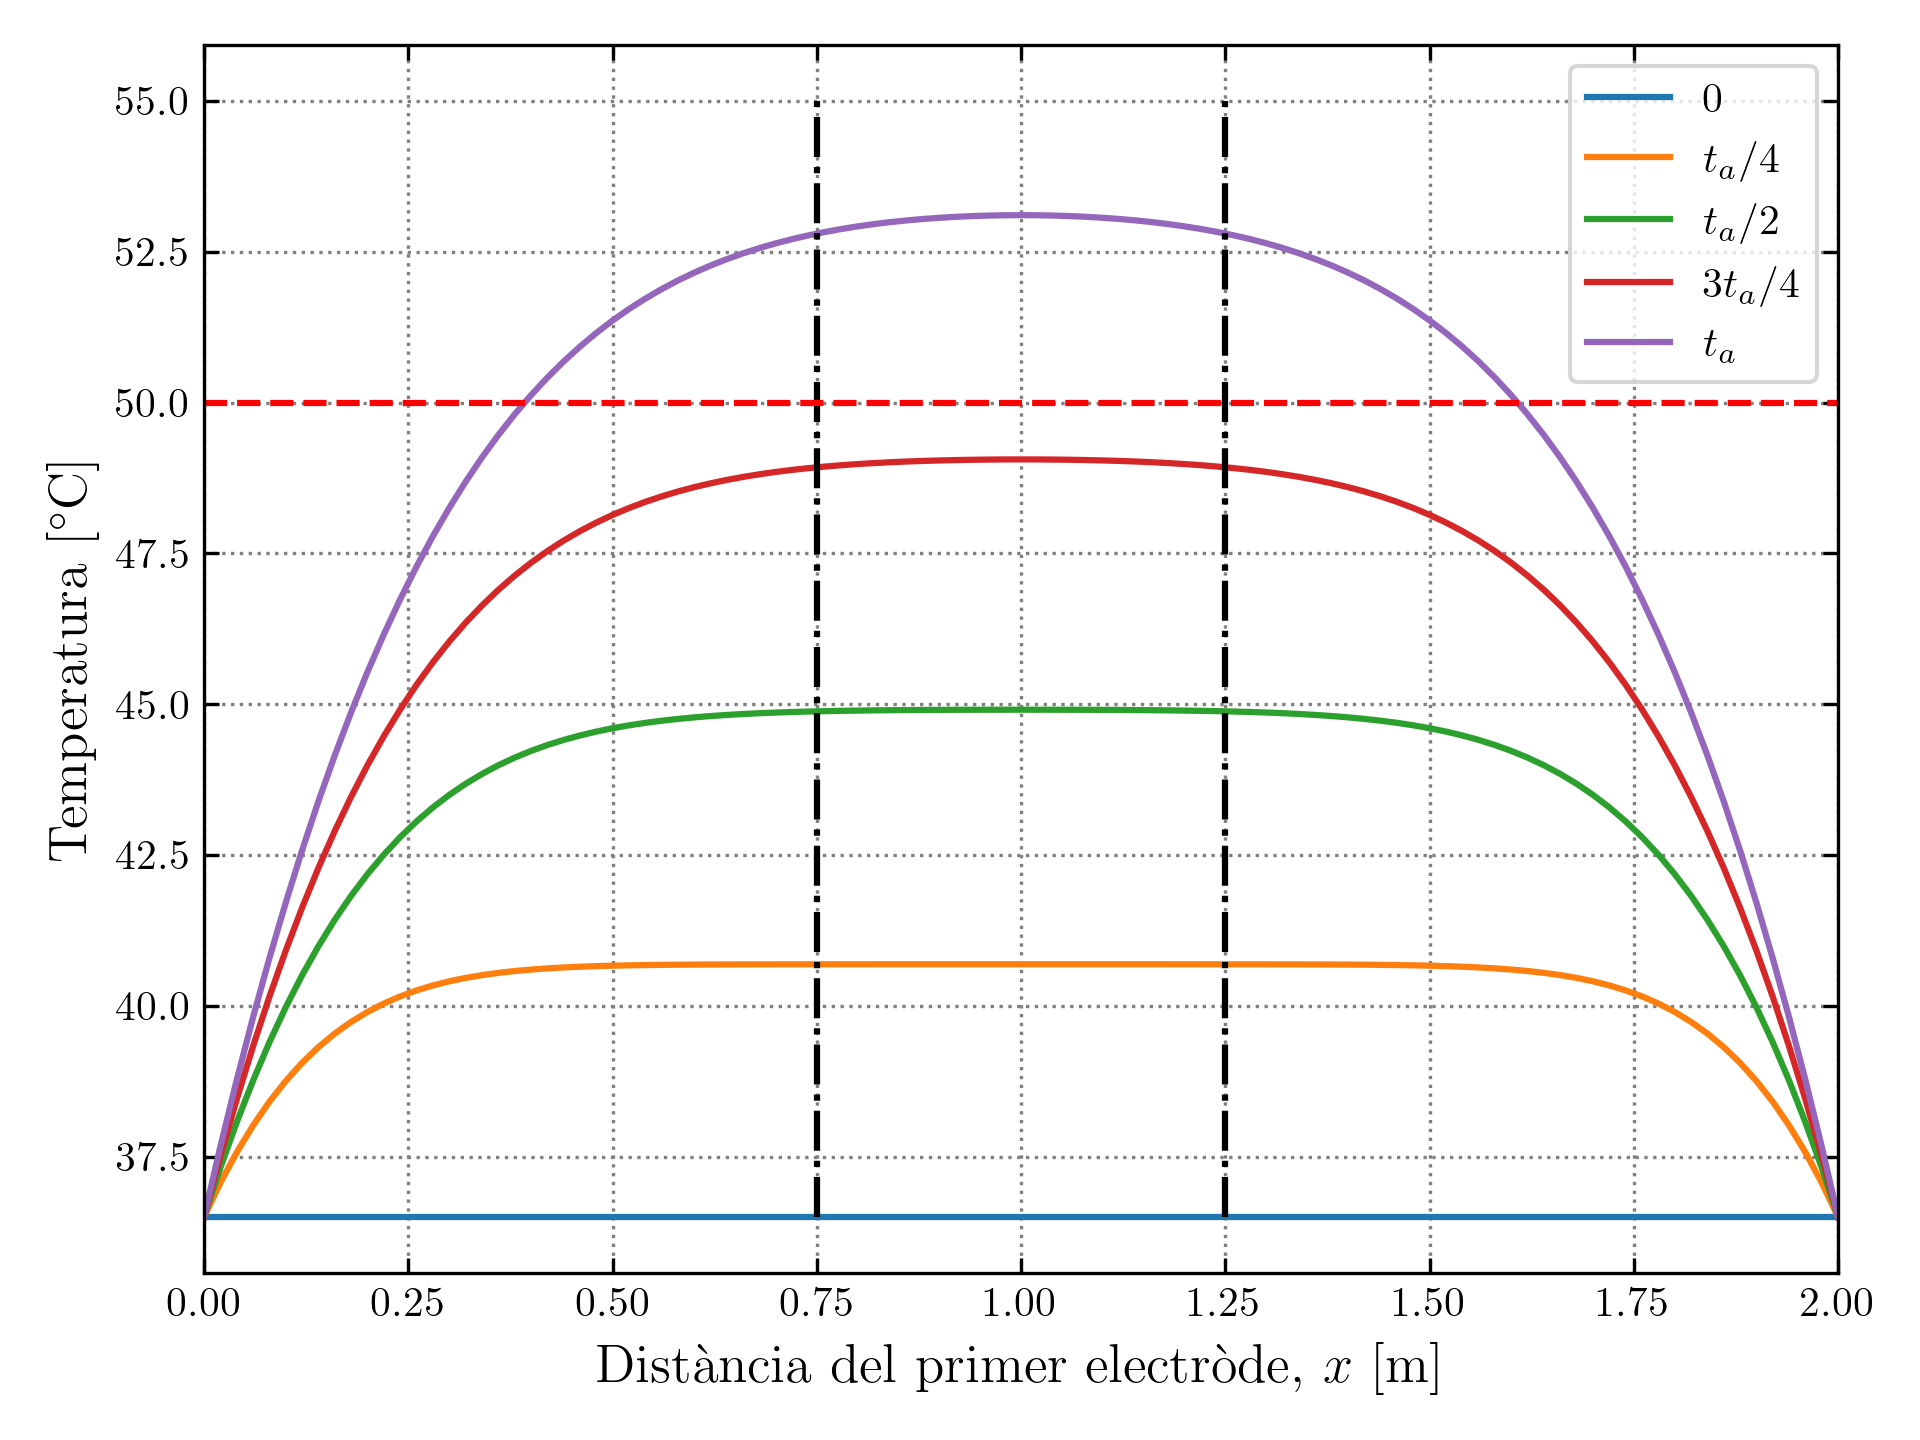
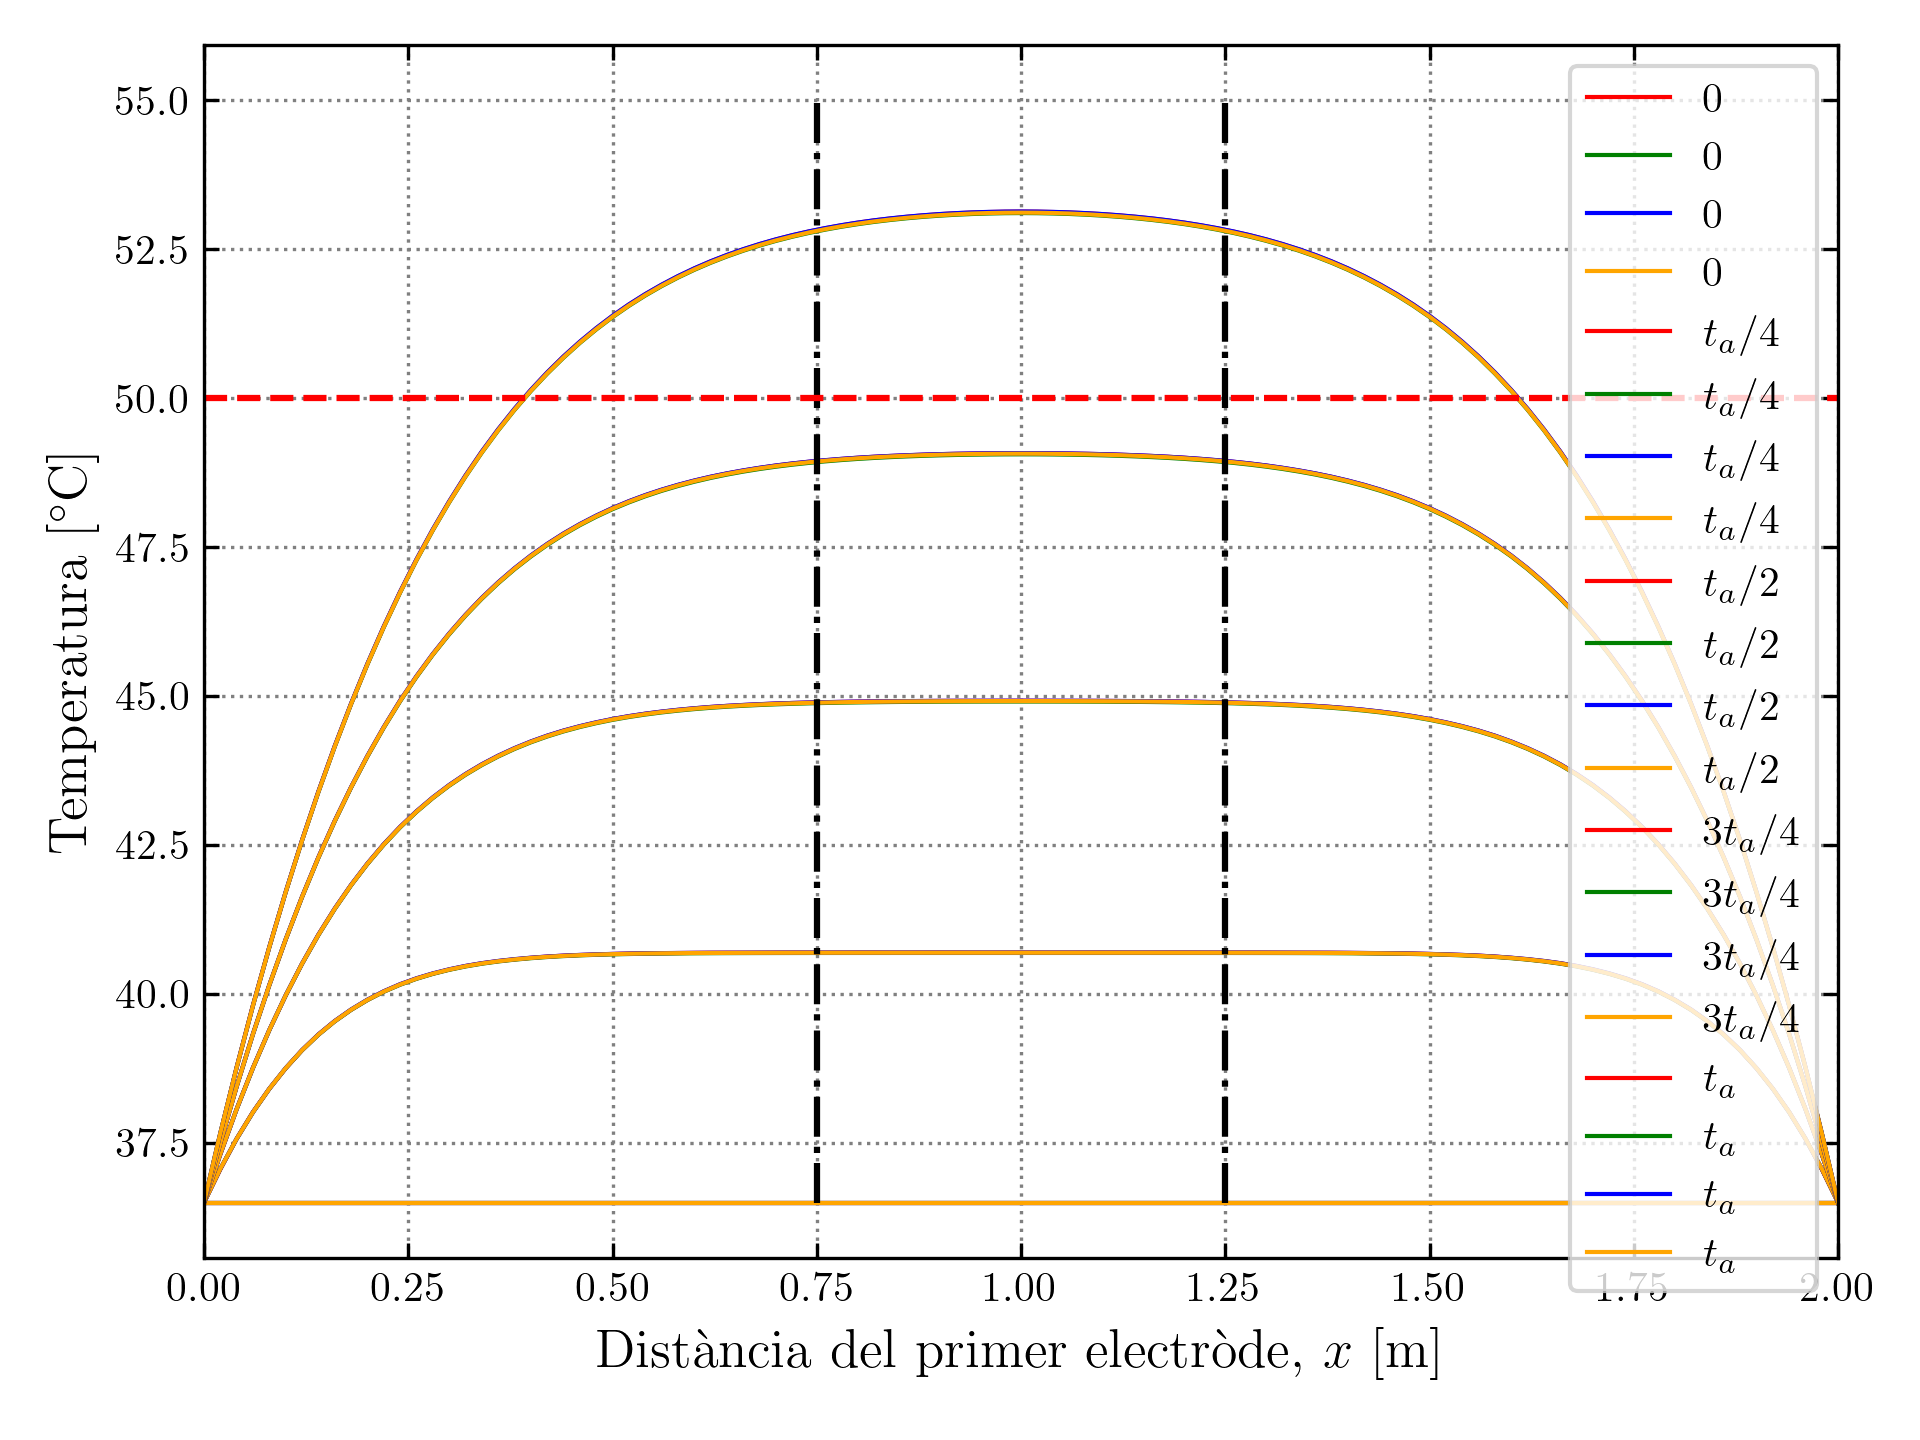
implementació 3mètodes+analítica

diff --git a/crank_nicolson.py b/crank_nicolson.py
@@ -2,12 +2,15 @@ import numpy as np
 import numpy.linalg as la
 from scipy.linalg import block_diag
 import matplotlib.pyplot as plt
-
 #Visualització amb LaTeX dels gràfics
 plt.rcParams.update({
     "text.usetex": True,
     "font.family": "Computer Modern"})
-
+#Solució analítica fins al i-èsim terme
+def T(z,t,i,T0):
+    for n in range(0,i+1):
+        T0+=(4/(np.pi*(2*n+1)))*((1-np.exp(-((2*n+1)**2)*(np.pi**2)*t))/(((2*n+1)**2)*(np.pi**2)))*np.sin(np.pi*z*(2*n+1))
+    return T0
 #Funció que implementa el mètode de Gauss-Seidel: AT_i = B
 def gauss_seidel(A, B, T_i, max_iter=1000, tolerancia=1e-6):
     n = len(B)
@@ -46,7 +49,6 @@ print('Distància característica l0:', l0, 'm')
 print('Condició de contorn T_c:', T_c_nonorm, 'K')
 print('--------------------')
 
-
 #Paràmetres de discretització
 n=101   # Nombre de punts mallat espacial
 t_final = 0.025 #normalitzat
@@ -65,35 +67,87 @@ print('--------------------')
 # Definició de matrius usades en els càlculs
 I = np.identity(n)
 M = 2*I + (-1)*np.diag(np.ones(n-1),1) + (-1)*np.diag(np.ones(n-1),-1)
-#Modifiquem la 1a i última fila per incorporar les condicions de contorn
+# Modifiquem la 1a i última fila per incorporar les condicions de contorn
 M[0,0:3] = [-1,2,-1]
 M[-1,-3:] = [-1,2,-1]
-A1 = I + gamma/2 * M
-A2 = I - gamma/2 * M
 
-#Inicialitzem la temperatura t=0 a T=T_in a tota posicio
-T_i = T_c * np.ones(n)
+# Matrius per a l'esquema de Euler (ímplicít i explícit)
+E1 = I + gamma * M
+E2 = I - gamma * M
+# Matrius per a l'esquema de Crank-Nicolson
+N1 = I + gamma/2 * M
+N2 = I - gamma/2 * M
 
-#Esquema d'iteració Crank-Nicolson:
-# A1*T^{temps+Dt} = A2*T^{temps} + Dt * (1,...,1) = B^{temps}
-sol_T = np.zeros((m,n))
-#Inicialitzem la temperatura t=0 a T=T_in a tota posicio
-sol_T[0,:] = T_i.copy()
+# Inicialitzem la temperatura t=0 a T=T_in a tota posicio
+T_i_exp = T_c * np.ones(n)
+T_i_imp = T_c * np.ones(n)
+T_i_cn = T_c * np.ones(n)
+
+# Esquema d'iteració Euler explícit:
+# T^{temps + Dt} = E2 * T^{temps} + Dt * (1,...,1) = B^{temps}
+sol_T_exp = np.zeros((m,n))
+sol_T_exp[0,:] = T_i_exp.copy()
+
+# Esquem d'iteració Euler implícit:
+# E1*T^{temps + Dt} = E2 * T^{temps - Dt} + 2 * Dt * (1,...,1) = B^{temps}
+sol_T_imp = np.zeros((m,n))
+sol_T_imp[0,:] = T_i_imp.copy()
+
+# Esquema d'iteració Crank-Nicolson:
+# N1 * T^{temps + Dt} = N2 * T^{temps} + Dt * (1,...,1) = B^{temps}
+sol_T_cn = np.zeros((m,n))
+sol_T_cn[0,:] = T_i_cn.copy()
+
 for temps in range(1,m):
-    B = A2 @ T_i + Dt * np.ones(n)
-    # Sistema lineal A1*T^{temps+Dt} = B^{temps}
-    # Fixem temps constant: A1*T' = B
-    T_i = gauss_seidel(A1, B, T_i, max_iter=1000, tolerancia=1e-6)
+    #Euler explícit
+    T_i_exp = E2 @ T_i_exp + Dt * np.ones(n)
+    #Euler implícit
+    # Sistema lineal E1*T^{temps+Dt} = B^{temps} --> E1*T' = B_imp
+    if temps == 1:
+        T_i_imp = E2 @ T_i_imp + Dt * np.ones(n)    # Primera iteració amb Euler explícit per iniciar
+    else:
+        B_imp = E2 @ sol_T_imp[temps-2,:] + 2 * Dt * np.ones(n)
+        T_i_imp = gauss_seidel(E1,B_imp,sol_T_imp[temps-1,:], max_iter=1000, tolerancia=1e-6)
+    # Crank-Nicolson
+    # Sistema lineal N1*T^{temps+Dt} = B^{temps} --> N1*T' = B_exp
+    B_cn = N2 @ T_i_cn + Dt * np.ones(n)
+    T_i_cn = gauss_seidel(N1, B_cn, T_i_cn, max_iter=1000, tolerancia=1e-6)
     #Fixem els extrems a la condició de contorn
-    T_i[0] = T_c
-    T_i[-1] = T_c
-    sol_T[temps,:] = T_i.copy()
+    T_i_exp[0] = T_c
+    T_i_exp[-1] = T_c
+    T_i_imp[0] = T_c
+    T_i_imp[-1] = T_c
+    T_i_cn[0] = T_c
+    T_i_cn[-1] = T_c
+    sol_T_exp[temps,:] = T_i_exp.copy()
+    sol_T_imp[temps,:] = T_i_imp.copy()
+    sol_T_cn[temps,:] = T_i_cn.copy()
 
-plt.plot(2*np.linspace(0,1,n), sol_T[0,:]*Temp0-273.15, label='0')
-plt.plot(2*np.linspace(0,1,n), sol_T[m//4,:]*Temp0-273.15, label='$t_a/4$')
-plt.plot(2*np.linspace(0,1,n), sol_T[m//2,:]*Temp0-273.15, label='$t_a/2$')
-plt.plot(2*np.linspace(0,1,n), sol_T[3*m//4,:]*Temp0-273.15, label='$3t_a/4$')
-plt.plot(2*np.linspace(0,1,n), sol_T[-1,:]*Temp0-273.15, label='$t_a$')
+#Calculem la solució analítica en els punts del mallat
+sol_T_an = np.zeros((m,n))
+for i in range(0,m):
+    for j in range(0,n):
+        sol_T_an[i,j] = T(j*Dx,i*Dt,20, T_c)
+plt.plot(2*np.linspace(0,1,n), sol_T_an[0,:]*Temp0-273.15, label='0', linewidth = 1,color='r')
+plt.plot(2*np.linspace(0,1,n), sol_T_cn[0,:]*Temp0-273.15, label='0', linewidth = 1,color='g')
+plt.plot(2*np.linspace(0,1,n), sol_T_exp[0,:]*Temp0-273.15, label='0', linewidth = 1,color='blue')
+plt.plot(2*np.linspace(0,1,n), sol_T_imp[0,:]*Temp0-273.15, label='0', linewidth = 1,color='orange')
+plt.plot(2*np.linspace(0,1,n), sol_T_an[m//4,:]*Temp0-273.15, label='$t_a/4$', linewidth = 1,color='r')
+plt.plot(2*np.linspace(0,1,n), sol_T_cn[m//4,:]*Temp0-273.15, label='$t_a/4$', linewidth = 1,color='g')
+plt.plot(2*np.linspace(0,1,n), sol_T_exp[m//4,:]*Temp0-273.15, label='$t_a/4$', linewidth = 1,color='blue')
+plt.plot(2*np.linspace(0,1,n), sol_T_imp[m//4,:]*Temp0-273.15, label='$t_a/4$', linewidth = 1,color='orange')
+plt.plot(2*np.linspace(0,1,n), sol_T_an[m//2,:]*Temp0-273.15, label='$t_a/2$', linewidth = 1,color='r')
+plt.plot(2*np.linspace(0,1,n), sol_T_cn[m//2,:]*Temp0-273.15, label='$t_a/2$', linewidth = 1,color='g')
+plt.plot(2*np.linspace(0,1,n), sol_T_exp[m//2,:]*Temp0-273.15, label='$t_a/2$', linewidth = 1,color='blue')
+plt.plot(2*np.linspace(0,1,n), sol_T_imp[m//2,:]*Temp0-273.15, label='$t_a/2$', linewidth = 1,color='orange')
+plt.plot(2*np.linspace(0,1,n), sol_T_an[3*m//4,:]*Temp0-273.15, label='$3t_a/4$', linewidth = 1,color='red')
+plt.plot(2*np.linspace(0,1,n), sol_T_cn[3*m//4,:]*Temp0-273.15, label='$3t_a/4$', linewidth = 1,color='green')
+plt.plot(2*np.linspace(0,1,n), sol_T_exp[3*m//4,:]*Temp0-273.15, label='$3t_a/4$', linewidth = 1,color='blue')
+plt.plot(2*np.linspace(0,1,n), sol_T_imp[3*m//4,:]*Temp0-273.15, label='$3t_a/4$', linewidth = 1,color='orange')
+plt.plot(2*np.linspace(0,1,n), sol_T_an[-1,:]*Temp0-273.15, label='$t_a$', linewidth = 1,color='r')
+plt.plot(2*np.linspace(0,1,n), sol_T_cn[-1,:]*Temp0-273.15, label='$t_a$', linewidth = 1,color='g')
+plt.plot(2*np.linspace(0,1,n), sol_T_exp[-1,:]*Temp0-273.15, label='$t_a$', linewidth = 1,color='blue')
+plt.plot(2*np.linspace(0,1,n), sol_T_imp[-1,:]*Temp0-273.15, label='$t_a$', linewidth = 1,color='orange')
 plt.xlabel('Distància del primer electròde, $x$ [m]',fontsize=13)
 plt.ylabel('Temperatura [$^\circ$C]',fontsize=13)
 plt.xlim(0,2)
@@ -106,3 +160,4 @@ plt.legend(fontsize=10)
 plt.grid(True, linestyle='dotted', color='gray')
 plt.tight_layout()
 plt.savefig("temperature_distribution.png",dpi=300)
+plt.show()
